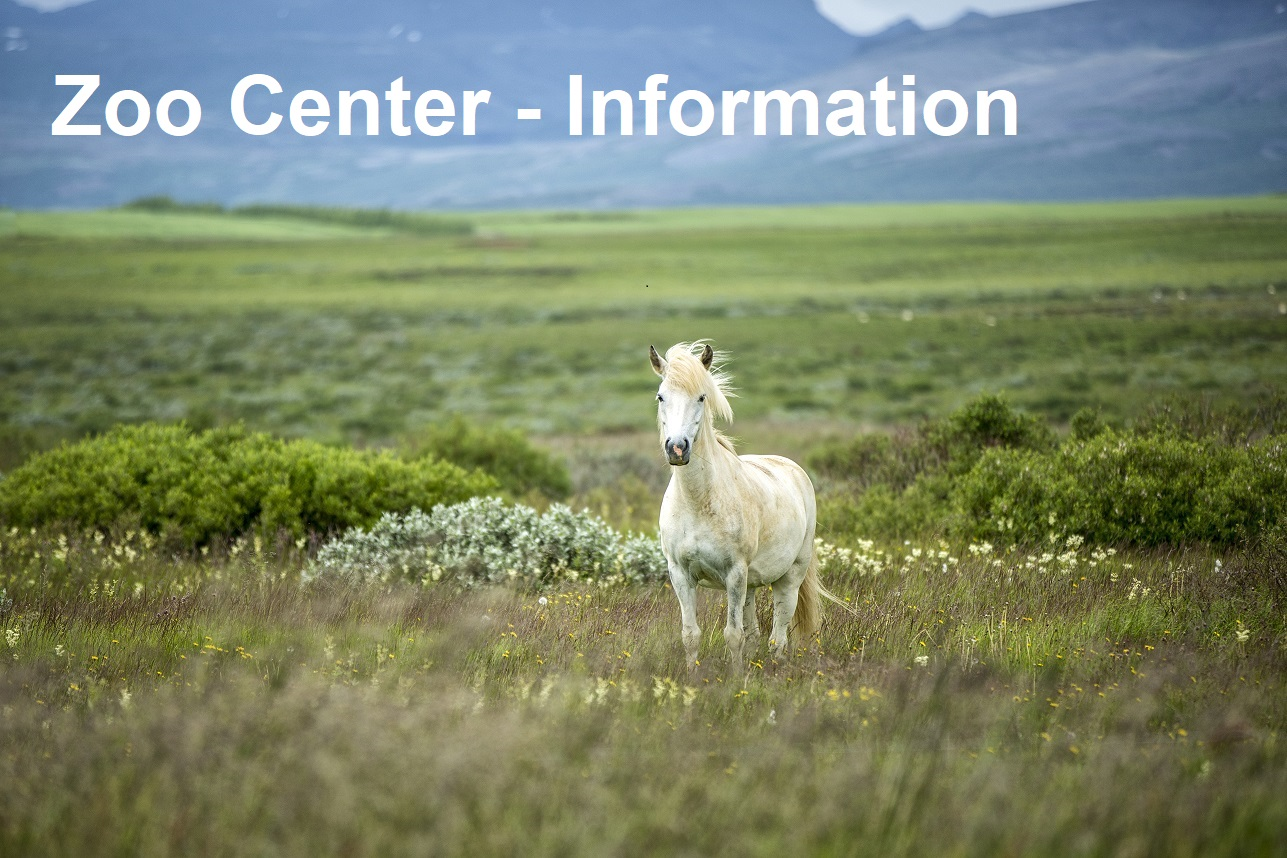
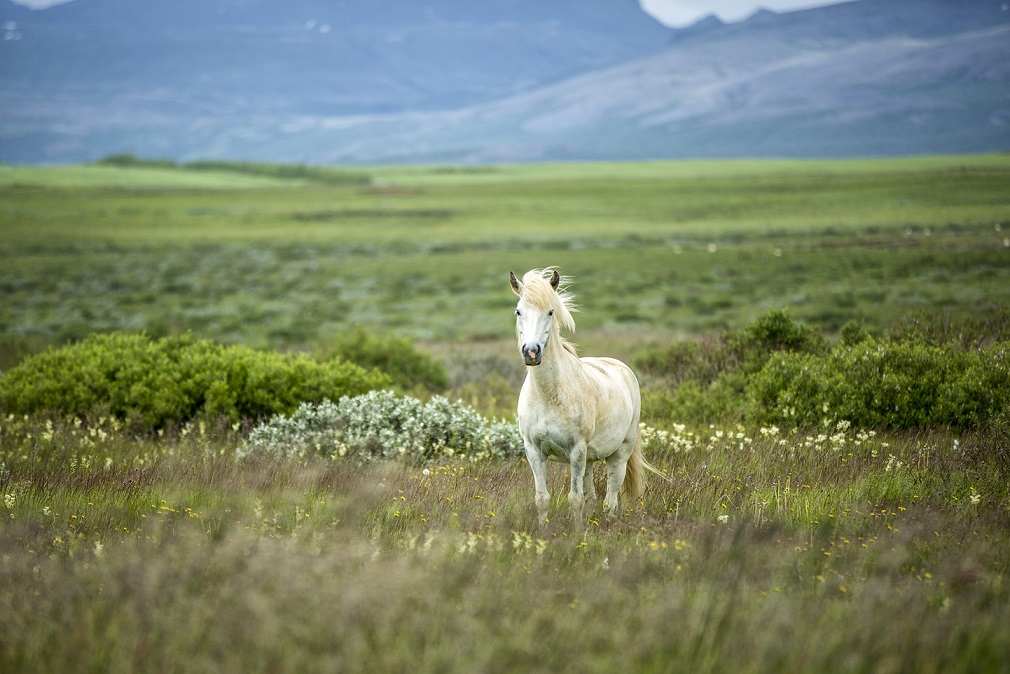
Updated Module 8 lab code

Changed region(s): [[0.399, 0.0623, 0.798, 0.1558], [0.0307, 0.0623, 0.399, 0.1558]]

diff --git a/Allfiles/Mod08/Labfiles/01_Zoo_end/Zoo/wwwroot/css/zoo-style.css b/Allfiles/Mod08/Labfiles/01_Zoo_end/Zoo/wwwroot/css/zoo-style.css
@@ -1,9 +1,12 @@
 body {
-    background-color: #BDBDBD;
+    background-color: #f5f5f5;
+    padding: 0;
+    margin: 0;
 }
 
 .main-title {
-    color: #321919;
+    color: #008484;
+    text-shadow: 0px 2px 5px #aba8a8;
     font-family: Arial, serif;
     font-size: 50px;
     font-weight: bolder;
@@ -12,11 +15,25 @@
 }
 
 .header-container {
+    width: 100%;
+    margin-top:46px;
+    background-image: url("/images/header.jpg");
+    background-size: cover;
+    background-position: center center;
+    min-height: 500px;
+}
+
+.header-container h1 {
+    color: white;
+    text-shadow: 0px 4px 15px black;
+    font-size: 50px;
+    padding-top: 70px;
+     padding-left: 15px;
+}
+
+.header-container .content {
     max-width: 1040px;
     margin: 0 auto;
-    background-color: white;
-    box-shadow: 0 0 20px #1e004f;
-    text-align: center;
 }
 
 .img-header {
@@ -29,31 +46,84 @@
     display: flex;
     flex-wrap: wrap;
     justify-content: space-around;
-    max-width: 1040px;
+    max-width: 770px;
     margin: 10px auto;
-    background-color: white;
-    box-shadow: 0 0 20px #1e004f;
     text-align: center;
 }
 
+.info {
+    font-family:Arial;
+    background-color: #ffffff;
+    padding: 0;
+    margin: 10px 5px 15px 18px;
+    padding: 25px;
+    width: 305px;
+    border: 1px solid #d6d4d4;
+    border-radius: 10px;
+    overflow: hidden;
+    text-align:center;
+}
+
+.info table{
+    margin: 0 auto;
+}
+
+.info .contact-title {
+    font-weight: bold;
+    font-size: 18px;
+}
+.info .sub-header{
+    color: orange;
+    font-weight: bold;
+}
+.info .form-field{
+    text-align:left;
+}
+.info label {
+    width: 118px;
+    display: inline-block;
+    margin-bottom: 10px;
+}
+.info input{
+    border-radius: 2px;
+    line-height: 20px;
+    border: 1px solid #ccc6c6;
+    background-color: #f9f6f6;
+}
+.buy-tickets {
+    flex-direction: column;
+    align-items: center;
+}
 .photo-index-card {
-    background-color: #f5f5f5;
-    padding: 15px;
-    margin: 10px 5px 5px 18px;
-    height: 380px;
+    background-color: #ffffff;
+    padding: 0;
+    margin: 10px 5px 15px 18px;
+    padding-bottom: 25px;
     width: 355px;
+    border: 1px solid #d6d4d4;
+    border-radius: 10px;
+    overflow: hidden;
 }
 
 .display-picture-title {
-    display: inline-block;
-    margin: 5px 1px 5px 1px;
-    font-weight: bold;
-    font-size: 20px;
+    width: 277px;
+    padding: 10px 0;
+    margin: 0 auto;
+    position: relative;
+    margin-top: -43px;
+    background-color: orange;
+    height: 23px;
+    font-family: Arial;
+    font-weight: 100;
+}
+
+.image-wrapper {
+    height: 210px;
+    overflow: hidden;
 }
 
 .photo-display-img {
-    width: 325px;
-    height: 235px;
+    width: 100%;
 }
 
 .display {
@@ -61,25 +131,29 @@
     width: 350px;
     margin: 25px 1px 5px 1px;
     font-weight: bold;
-    font-size: 20px;
+    font-size: 16px;
+    font-family: Arial;
+    font-weight: 100;
+    max-width: 240px;
 }
 
-ul {
+.nav {
     list-style-type: none;
     margin: 0;
     padding: 0;
     overflow: hidden;
-    background-color: #333;
+    background-color: #85754e;
     position: fixed;
     top: 0;
+    left: 0;
     width: 100%;
 }
 
-li {
+.nav li {
     float: left;
 }
 
-li a {
+.nav li a {
     display: block;
     color: white;
     text-align: center;
@@ -87,12 +161,12 @@ li a {
     text-decoration: none;
 }
 
-li a:hover:not(.active) {
-     background-color: #111;
+.nav li a:hover:not(.active) {
+    background-color: #016b6b;
 }
 
 .active {
-    background-color: #4CAF50;
+    background-color: #008484;
     color: #fff;
 }
 
@@ -103,3 +177,58 @@ li a:hover:not(.active) {
 .display-div{
     display:block;
 }
+
+
+.step-title {
+    font-size: 20px;
+    line-height: 22px;
+    margin-bottom: 20px;
+    padding: 0 24px;
+    font-weight: bold;
+    color: #26b1b9;
+}
+
+input.submit-btn {
+    width: 100px;
+    margin-top: 12px;
+    height: 29px;
+    background-color: orange;
+    font-weight: bold;
+    box-shadow: inset 0px 0px 4px #b77006;
+    border: 1px solid #a59797;
+}
+
+input.submit-btn[disabled] {
+    opacity: 0.8;
+    background-color: whitesmoke;
+    box-shadow:none;
+}
+
+#summery .sum,
+#summery p {
+    font-weight: bold;
+}
+
+
+#summery #sum {
+    font-weight: bold;
+    color: orange;
+}
+
+#comment {
+    color: #e00e0e;
+    font-size: 13px;
+    font-weight: bold;
+    margin-top: 5px;
+}
+.field-validation-error{
+    text-align: right;
+    display: block;
+    margin-right: 12px;
+    margin-top: -5px;
+    margin-bottom: 8px;
+    font-weight: bold;
+    color: #e00e0e;
+    font-size: 12px;
+}
+

diff --git a/Allfiles/Mod08/Labfiles/01_Zoo_end/Zoo/wwwroot/js/jquery-form-functions.js b/Allfiles/Mod08/Labfiles/01_Zoo_end/Zoo/wwwroot/js/jquery-form-functions.js
@@ -1,18 +1,47 @@
 $(function () {
-    $('#adultQuantity').change(function (eventObj) {
-        var selected_value = $('#adultQuantity').val();
-        if (selected_value == '0') {
-            selected_value = '';
-        } else {
-            //$(".hidden-div").addClass("display-div").removeClass("hidden-div");
-            var msg = "Adult ticket - " + selected_value;
-            var cost = $("#adultCost").text();
-            var correctCost = (cost.substring(0, cost.length -1));
-            var calc = parseFloat(selected_value * correctCost);
-            var row = $("<tr>");
+    $('.pricing select').change(function (event) {
+        var target = $(event.target);
+        var value = parseInt(target.val());
+        var container = target.parent();
+        var price = container.prev();
+        var label = price.prev();
+ 
+        $("#" + label.text()).remove();
+
+        if (value) {
+            $("#summery").addClass("display-div").removeClass("hidden-div");
+
+            var correctCost = (price.text().substring(1, price.text().length));
+            var calc = parseFloat(value * correctCost).toFixed(2);
+
+            var msg = label.text() + " ticket - " + value.toString() + "x" + price.text() + " = <span class='sum'>" + calc +'</span>';
+            var row = $("<tr id='" + label.text() +"'>");
             row.append($("<td>").html(msg));
-            row.append($("<td>").html(calc + "$"));
             $("#totalAmount").append(row);
+
+        } 
+        if ($("#totalAmount tr").length == 0) {
+            $("#summery").addClass("hidden-div").removeClass("display-div");
+            $("#formButtons input").attr('disabled', 'disabled');
+            $("#comment").show();
+        } else {
+            $("#formButtons input").removeAttr('disabled');
+            $("#comment").hide();
         }
+        
+
+        calculateSum();
     });
+
+
+    function calculateSum() {
+        var rows = document.querySelectorAll("#totalAmount tr .sum");
+        var sum = 0;
+
+        for (var i = 0; i < rows.length; i++) {
+            sum += parseFloat(parseFloat(rows[i].innerHTML).toFixed(2));
+        }
+
+        document.getElementById("sum").innerHTML = "Total: $" + sum ;
+    }
 });

diff --git a/Allfiles/Mod08/Labfiles/01_Zoo_end/Zoo/wwwroot/js/js-total-amount-function.js b/Allfiles/Mod08/Labfiles/01_Zoo_end/Zoo/wwwroot/js/js-total-amount-function.js
@@ -1,0 +1,3 @@
+function slide() {
+
+}

diff --git a/Allfiles/Mod08/Labfiles/01_Zoo_end/Zoo/Models/Customer.cs b/Allfiles/Mod08/Labfiles/01_Zoo_end/Zoo/Models/Customer.cs
@@ -26,7 +26,7 @@ namespace Zoo.Models
         [Display(Name = "Phone Number"), DataType(DataType.PhoneNumber)]
         public int PhoneNumber { get; set; }
 
-        [StringLength(50, MinimumLength = 4)]
+        [Required(ErrorMessage = "Please enter your adress")]
         public string Address { get; set; }
 
         public double TotalAmount { get; set; }

diff --git a/Allfiles/Mod08/Labfiles/01_Zoo_end/Zoo/Controllers/ZooController.cs b/Allfiles/Mod08/Labfiles/01_Zoo_end/Zoo/Controllers/ZooController.cs
@@ -42,6 +42,8 @@ namespace Zoo.Controllers
         {
             if (ModelState.IsValid)
             {
+                _context.Customers.Add(customer);
+                _context.SaveChanges();
                 return RedirectToAction("Index");
             }
             return View(customer);
